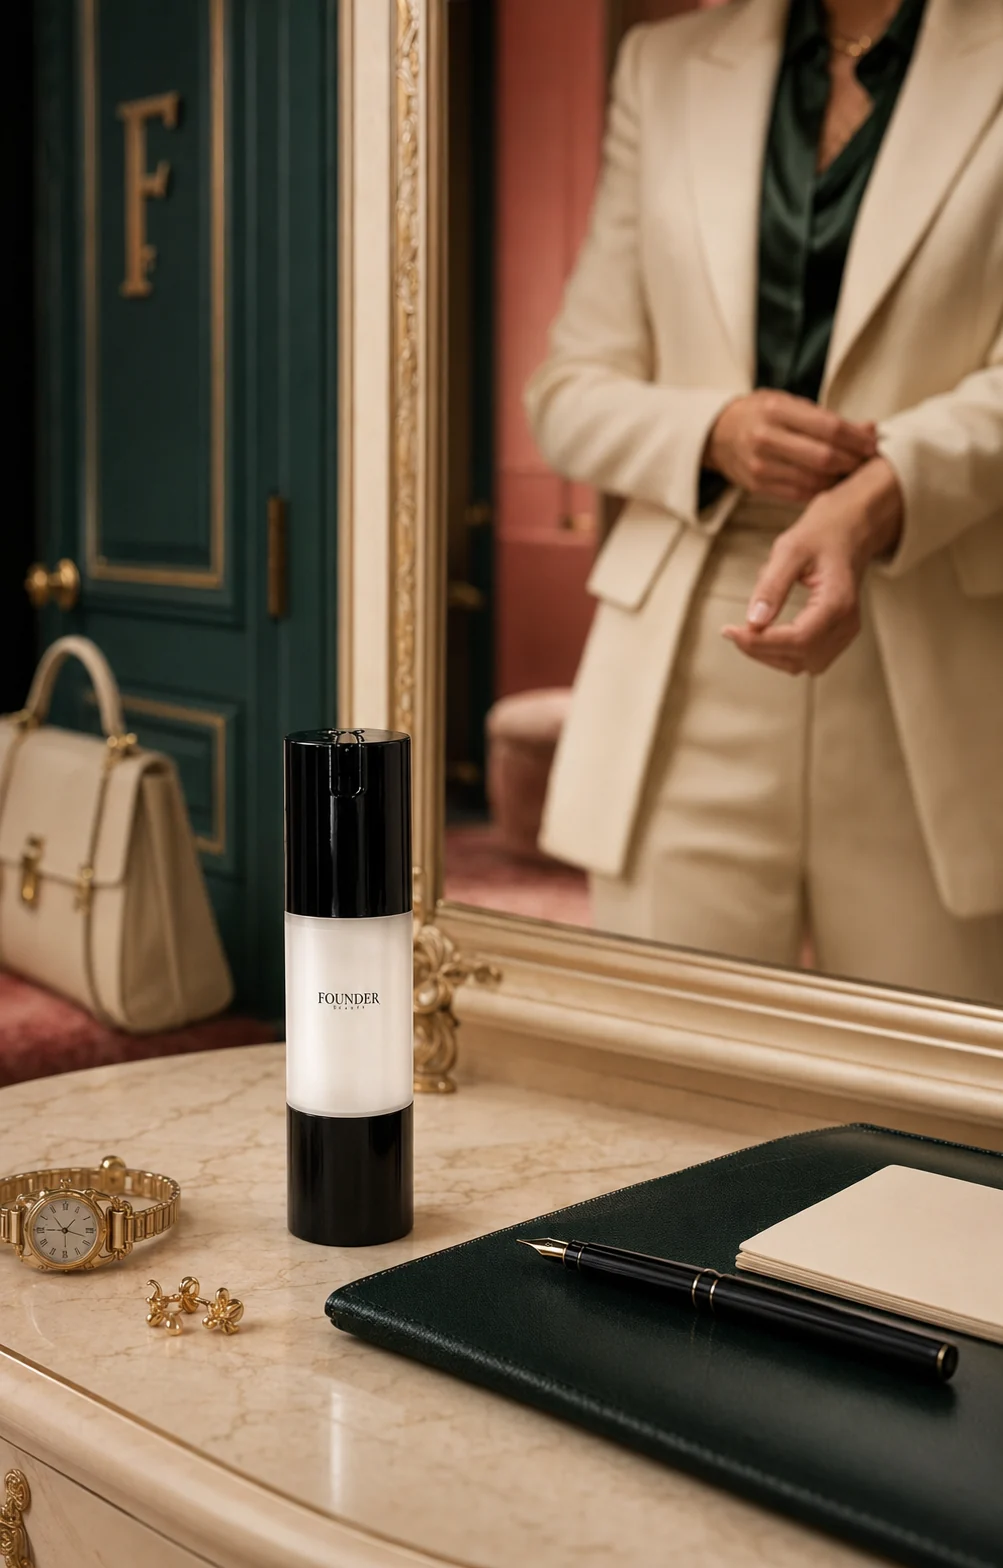
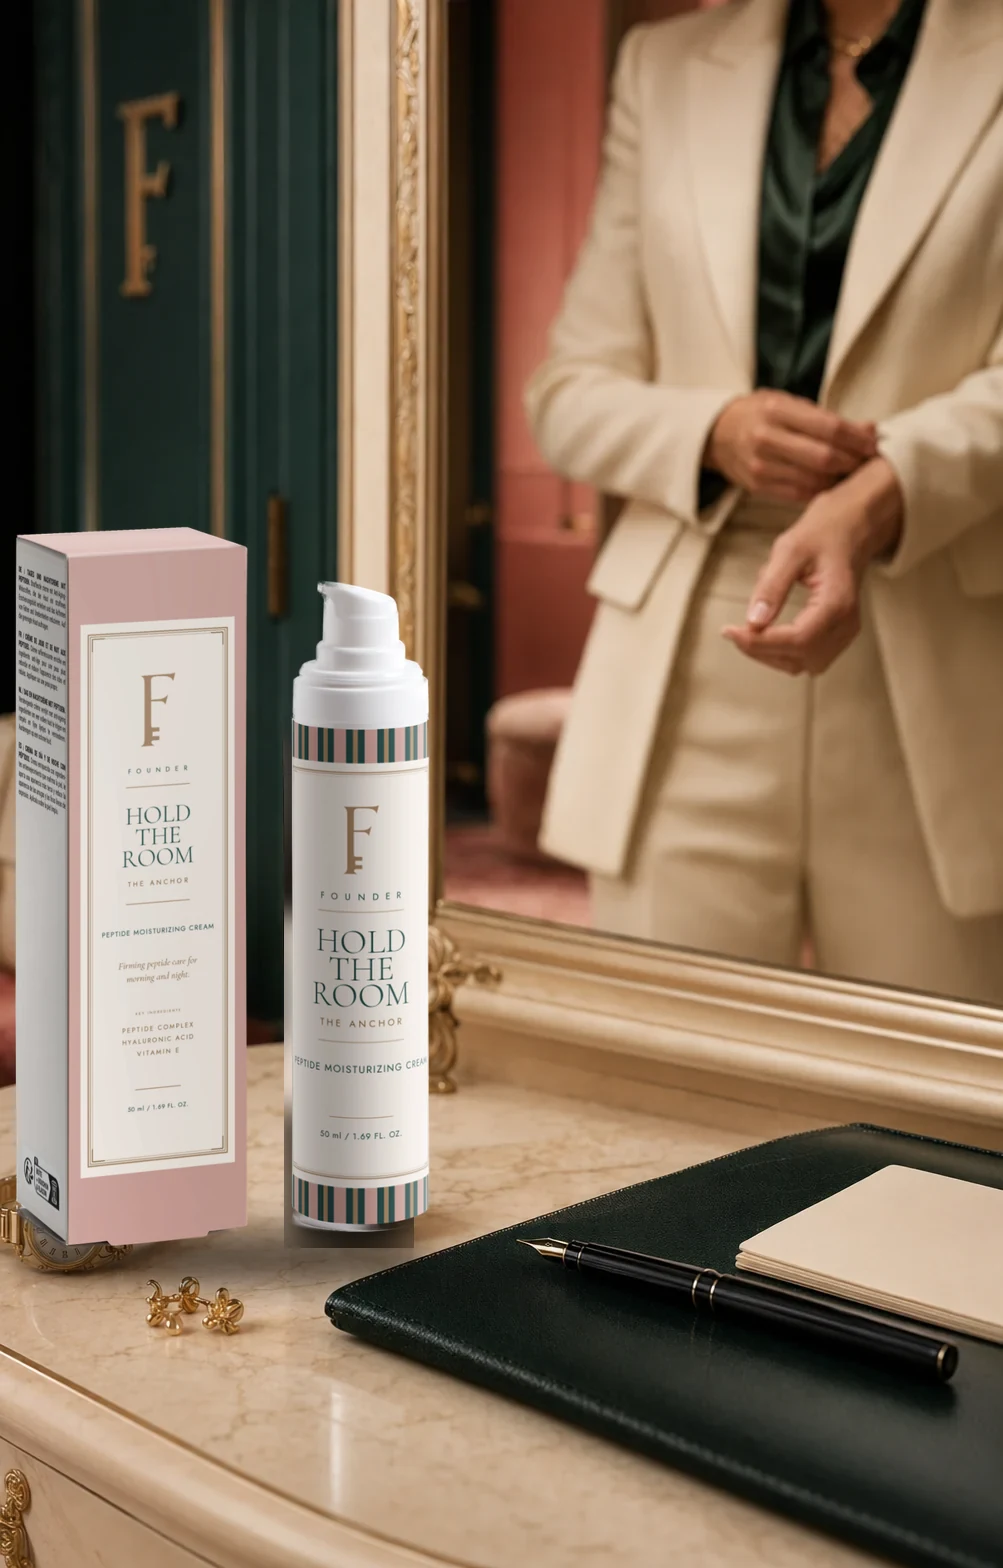
Room 04 shows the current Hold the Room; the vanity's products are links
Two things Shelby caught on the deployed page.

The mirror scene in Room 04 (and on Hold the Room's own page) still had
the old black airless bottle standing on the marble — the North American
cream that predates the FOUNDER packaging. The scene itself is the house:
the gilt mirror, the woman in the cream suit fastening her cuff, the
handbag, the pen. So the scene stays and the product changes: the old
bottle's footprint is softened out and the current Hold the Room — pink
carton, cream cartouche, the same cutout the vanity uses — stands where it
stood, with its own contact shadow and cast on the marble. Same file,
same path, both pages update.

In the vanity, the product itself is now the link. Hover still lights it;
click enters its room. Each piece is a real <Link> with an accessible
name, Tab reaches it and Enter enters it, so the "Enter this room" line
on the placard is a second way in rather than the only one.

Claude-Session: https://claude.ai/code/session_01Ur261Wsau2RympRHJCG9oK

Changed region(s): [[0.0, 0.3125, 0.4327, 0.8438]]

diff --git a/src/components/house/Vanity.tsx b/src/components/house/Vanity.tsx
@@ -11,6 +11,7 @@
  * here when it changes there.
  */
 
+import Link from "next/link";
 import { useCallback, useEffect, useRef, useState } from "react";
 import s from "./vanity.module.css";
 
@@ -131,7 +132,9 @@ export function Vanity({ items, title, lede }: { items: VanityItem[]; title: str
         ))}
       </div>
 
-      <div ref={shelf} className={s.shelf} role="listbox" aria-label="The FOUNDER Collection, in ritual order">
+      {/* Each product is its own link: hover lights it, click enters its room.
+          Shelby, 11 Sep — "you should be able to click the actual product". */}
+      <div ref={shelf} className={s.shelf} aria-label="The FOUNDER Collection, in ritual order">
         {items.map((it, i) => {
           const p = PIECES[slugOf(it.href)];
           return (
@@ -139,20 +142,22 @@ export function Vanity({ items, title, lede }: { items: VanityItem[]; title: str
               key={it.href}
               ref={(el) => { slots.current[i] = el; }}
               data-i={i}
-              role="option"
-              tabIndex={0}
-              aria-selected={i === active}
-              aria-label={`${it.name}, ${it.descriptor}`}
               className={`${s.slot} ${i === active ? s.slotOn : ""}`}
               style={{ "--h": p.h } as React.CSSProperties}
               onMouseEnter={() => { if (!phone()) { paused.current = true; light(i); } }}
               onMouseLeave={() => { paused.current = false; }}
-              onClick={() => light(i)}
-              onFocus={() => light(i)}
             >
               <span className={s.cone} />
-              {/* eslint-disable-next-line @next/next/no-img-element -- already-optimised alpha webp cutouts, sized by the true-scale unit in CSS; next/image cannot size by a CSS variable */}
-              <img src={p.src} alt={it.alt} width={p.w} height={p.ph} loading={i === 2 ? "eager" : "lazy"} decoding="async" />
+              <Link
+                href={it.href}
+                className={s.piece}
+                aria-label={`${it.name} — ${it.descriptor}. Enter this room.`}
+                aria-current={i === active ? "true" : undefined}
+                onFocus={() => light(i)}
+              >
+                {/* eslint-disable-next-line @next/next/no-img-element -- already-optimised alpha webp cutouts, sized by the true-scale unit in CSS; next/image cannot size by a CSS variable */}
+                <img src={p.src} alt={it.alt} width={p.w} height={p.ph} loading={i === 2 ? "eager" : "lazy"} decoding="async" />
+              </Link>
               <span className={s.refl} />
             </div>
           );

diff --git a/src/app/page.tsx b/src/app/page.tsx
@@ -405,7 +405,7 @@ export default function HomePage() {
             <div className="relative aspect-[1003/1568] w-full overflow-hidden bg-emerald">
               <Image
                 src="/products/hold-the-room-vanity-mirror.webp"
-                alt="Hold the Room on a marble dressing table in front of a gilt mirror, a woman fastening her cuff in the reflection."
+                alt="Hold the Room and its Desert Pink carton on a marble dressing table in front of a gilt mirror, a woman fastening her cuff in the reflection."
                 fill
                 loading="lazy"
                 sizes="(max-width: 1024px) 90vw, 34vw"

diff --git a/src/app/products/hold-the-room/page.tsx b/src/app/products/hold-the-room/page.tsx
@@ -161,7 +161,7 @@ export default function HoldTheRoomPage() {
         <div className="relative min-h-[60svh] lg:min-h-[46rem]">
           <Image
             src="/products/hold-the-room-vanity-mirror.webp"
-            alt="Hold the Room on a marble dressing table in front of a gilt mirror, a woman in a cream suit fastening her cuff in the reflection."
+            alt="Hold the Room and its Desert Pink carton on a marble dressing table in front of a gilt mirror, a woman in a cream suit fastening her cuff in the reflection."
             fill
             loading="lazy"
             sizes="(max-width: 1024px) 100vw, 52vw"

diff --git a/src/components/house/vanity.module.css b/src/components/house/vanity.module.css
@@ -144,6 +144,8 @@
   transition: opacity 0.8s var(--ease);
   pointer-events: none;
 }
+.piece { display: block; line-height: 0; }
+.piece:focus-visible { outline: 1.5px solid var(--color-champagne); outline-offset: 10px; }
 .slot img {
   display: block;
   width: auto;
